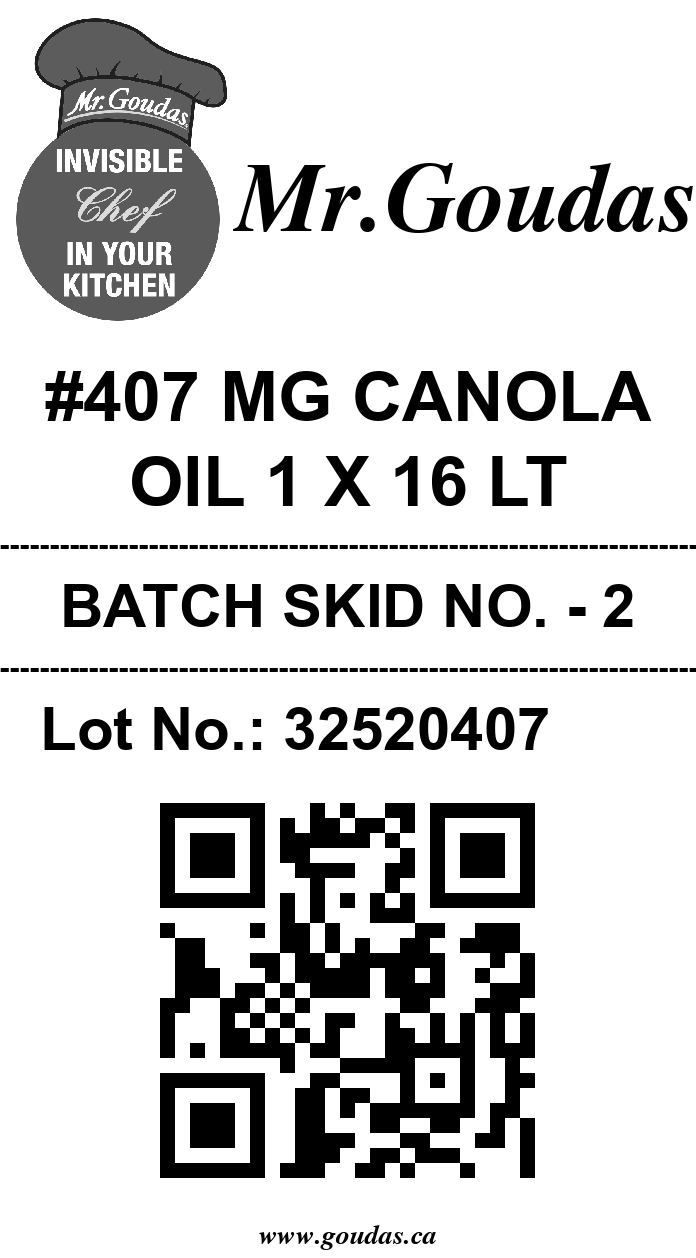
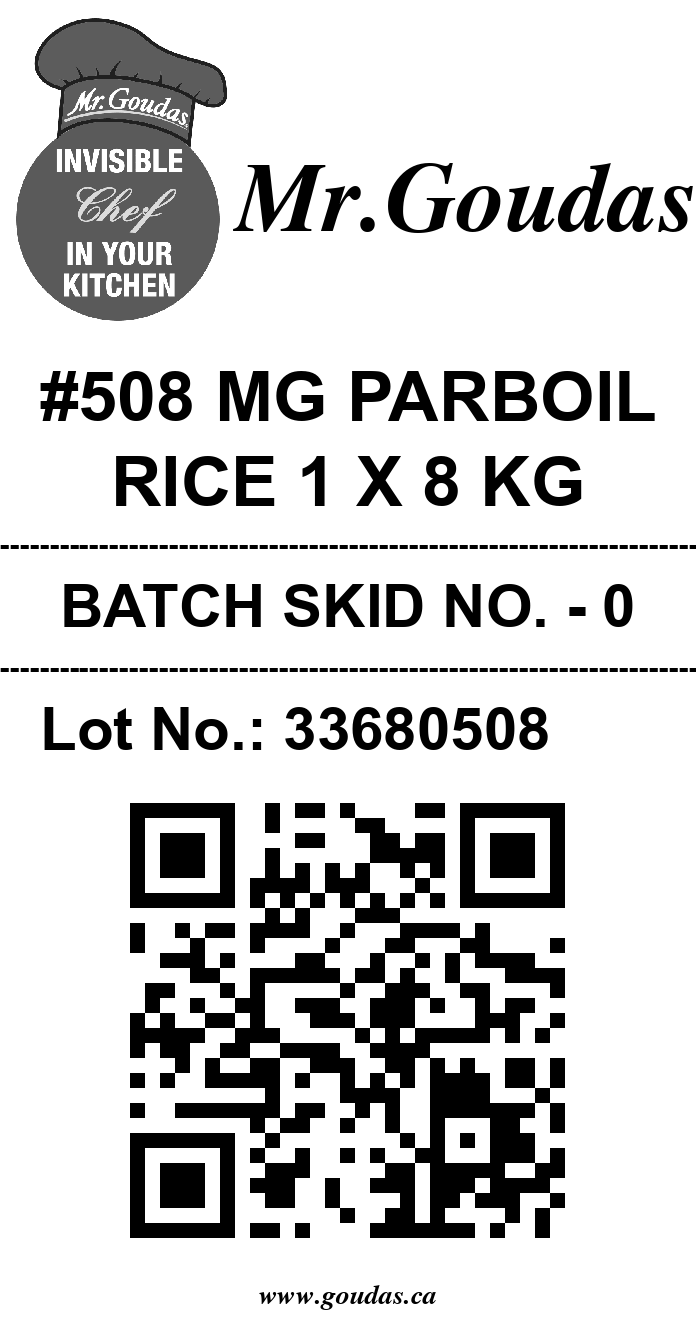
asd514a5sd45as

diff --git a/LabelCreate.py b/LabelCreate.py
@@ -116,7 +116,7 @@ def generateSkidLabel(data, logoPath='logoBW.png', width=696, verticalMargin=35,
 
     # Generate QR code
     qr = qrcode.QRCode(version=1, box_size=15, border=2)
-    qr.add_data(data['item']+'_'+data['lotNumber']+'_'+str(len(data['printedStickers']))+'G')
+    qr.add_data(data['timeStamp']+'@'+data['item']+'@'+data['lotNumber']+'@'+str(len(data['printedStickers']))+'G')
     qr.make(fit=True)
     qrImage = qr.make_image(fill='black', back_color='white')
     qrWidth, qrHeight = qrImage.size
